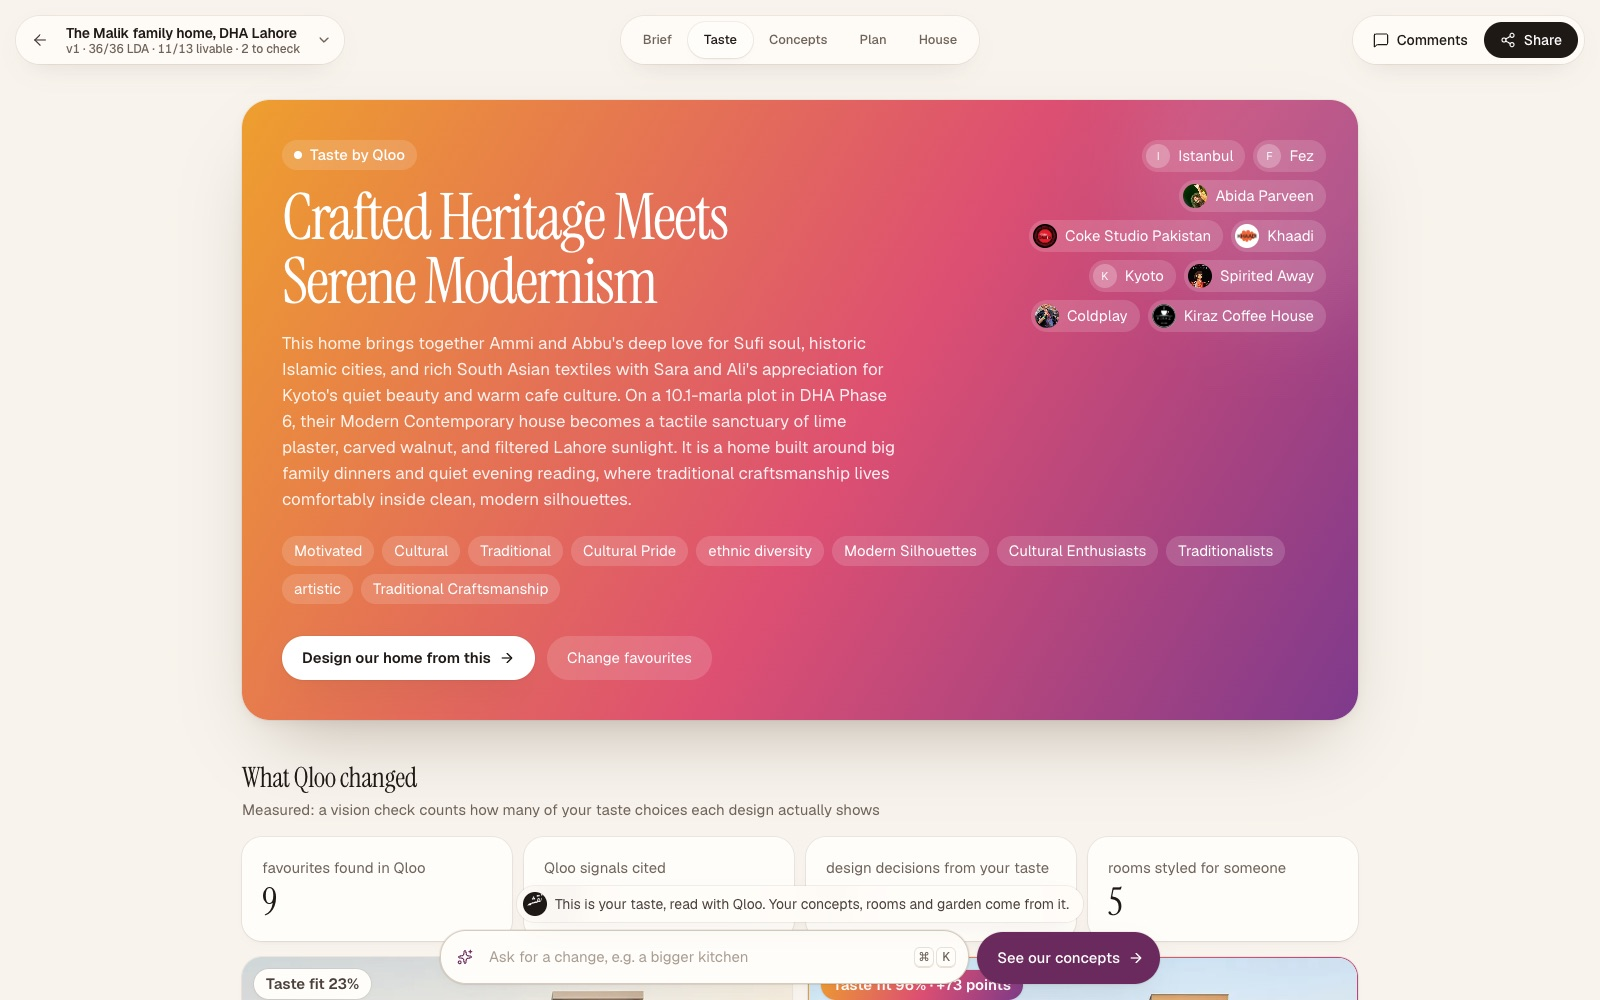
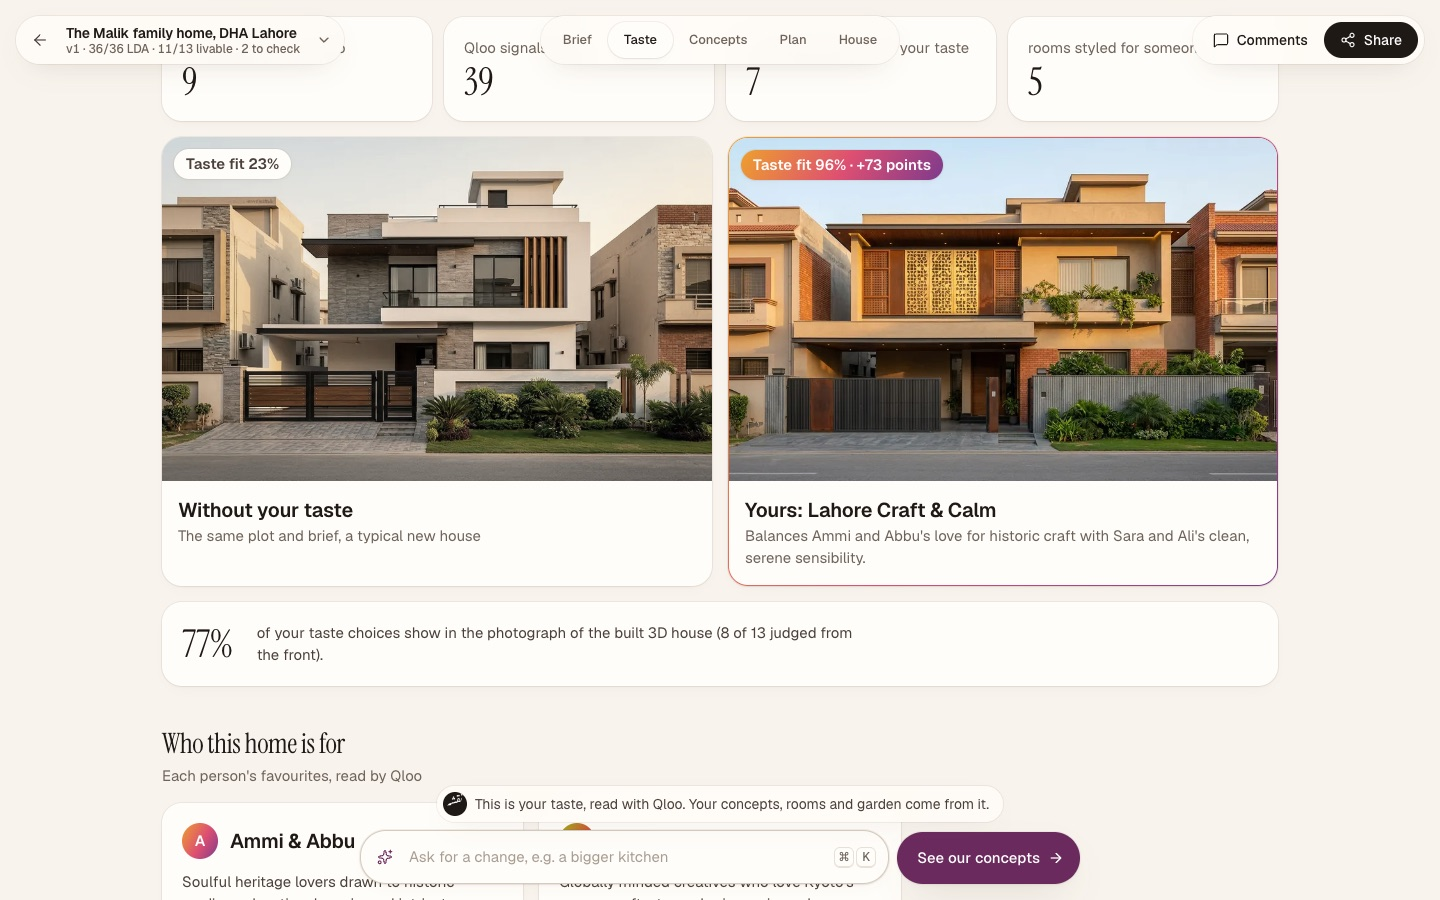
Screens from the live app

diff --git a/README.md b/README.md
@@ -55,6 +55,23 @@ Only favourites and a place name are sent to Qloo, never names or personal data.
 8. **House.** The 3D model is written as code against our House SDK (three.js), built from the chosen concept feature by feature and furnished from the family's palettes and materials, room by room. A vision check compares it with the concept and rebuilds what's missing. Photos from the road, the corner, the garden and the air are made from the model.
 9. **Walk, comment, revise.** Walk through in first person, pin a note on any wall, share a link so relatives can comment from their phones. The revision agent applies the notes in the family's taste, re-checks the rules and answers each one.
 
+## Screens
+
+Captured from the live app with Playwright.
+
+| | |
+|---|---|
+| ![Each person's favourites](docs/screens/11-composer.jpg) | ![The family's taste, read with Qloo](docs/screens/02-taste-hero.jpg) |
+| **Taste.** Each person adds a few favourites as chips. | **Their style.** Qloo's reading of the family, and the favourites behind it. |
+| ![Measured impact](docs/screens/03-impact.jpg) | ![Decisions with their Qloo evidence](docs/screens/05-decisions.jpg) |
+| **What Qloo changed.** The same brief without their taste scores 23%; theirs, 96%. | **Decisions.** Every choice cites the Qloo signals behind it. |
+| ![A room for each person](docs/screens/06-rooms.jpg) | ![Concepts with their taste fit](docs/screens/07-concepts.jpg) |
+| **Rooms.** Each follows one person's taste; switch it and picture it. | **Concepts.** One per taste direction, each with its measured fit. |
+| ![The plan](docs/screens/08-plan.jpg) | ![The house in 3D](docs/screens/09-house.jpg) |
+| **Plan.** Every bylaw check passes. | **House.** Built in 3D from the concept and the family's palettes. |
+| ![Photos from four angles](docs/screens/10-photos.jpg) | ![Landing](docs/screens/01-landing.jpg) |
+| **Photos.** Made from the 3D model, from four angles. | **Start.** Open the sample home, or start your own. |
+
 ## Models
 
 | Step | Model |
